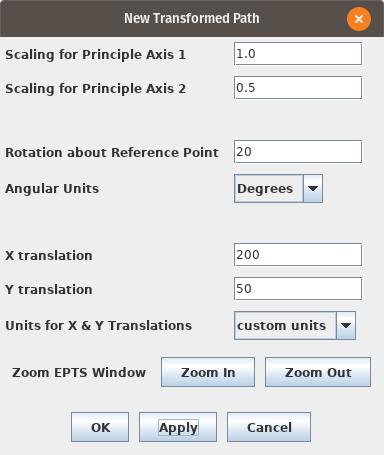
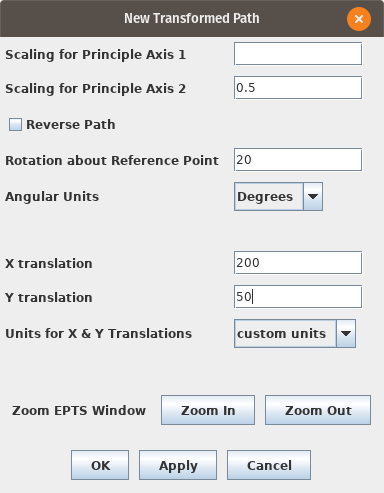
Add code to reverse a path

diff --git a/manual/manual.html b/manual/manual.html
@@ -559,9 +559,13 @@ The <code>Edit</code> menu contains the following items:
     principal axis by 1/2, then rotating by 20 degrees around the
     center of mass, and finally translating by 200 units in the X
     direction and 50 units in the Y direction (in this example custom
-    units are user-space units).  If the <CODE>Apply</CODE> button is
-    clicked, a red shape will appear showing the position of the
-    transformed shape. The corresponding EPTS window
+    units are user-space units). The <CODE>Reverse Path</CODE> option
+    is not used in this example - when checked, it does not change the
+    path but does change the order in which the points along the path
+    are displayed in the table by listing the points in the reverse
+    order.  If the <CODE>Apply</CODE> button is clicked, a red shape
+    will appear showing the position of the transformed shape. The
+    corresponding EPTS window
     <BR><BR>
     <CENTER><IMG src="NTPWindow.png"></CENTER>
     <BR>

diff --git a/src/org.bzdev.epts/org/bzdev/epts/EPTSWindow.java b/src/org.bzdev.epts/org/bzdev/epts/EPTSWindow.java
@@ -1458,6 +1458,12 @@ abstract class TransformPane extends JPanel {
 	return newpath;
     }
 
+    private JCheckBox reversePathCB;
+
+    public boolean requestsReversed() {
+	return reversePathCB.isSelected();
+    }
+
     CharDocFilter cdf = new CharDocFilter();
 
     boolean status =  false;
@@ -1520,6 +1526,10 @@ abstract class TransformPane extends JPanel {
 					ref.getX() + len*principalAxes[1][0],
 					ref.getY() + len*principalAxes[1][1]);
 	}
+
+	reversePathCB = new JCheckBox(localeString("reversePath"));
+	reversePathCB.setEnabled(true);
+	reversePathCB.setSelected(false);
 
 	/*
 	JRadioButton cmButton = new JRadioButton(localeString("cm"), true);
@@ -1769,8 +1779,14 @@ abstract class TransformPane extends JPanel {
 	c.gridwidth = GridBagConstraints.REMAINDER;
 	gridbag.setConstraints(scale2TF, c);
 	add(scale2TF);
-
+	c.gridwidth = 1;
+	gridbag.setConstraints(reversePathCB, c);
+	add(reversePathCB);
 	JLabel spacer = new JLabel(" ");
+	gridbag.setConstraints(spacer, c);
+	add(spacer);
+	spacer = new JLabel(" ");
+	c.gridwidth = GridBagConstraints.REMAINDER;
 	gridbag.setConstraints(spacer, c);
 	add(spacer);
 
@@ -1845,6 +1861,11 @@ abstract class TransformPane extends JPanel {
 		saveIndices();
 		ok();
 	    });
+
+	spacer = new JLabel(" ");
+	c.gridwidth = GridBagConstraints.REMAINDER;
+	gridbag.setConstraints(spacer, c);
+	add(spacer);
 
 	JPanel zoomPane = new JPanel();
 	GridBagLayout gridbagZ = new GridBagLayout();
@@ -2686,7 +2707,7 @@ public class EPTSWindow {
     double scaleX = 1.0;
     double scaleY = 1.0;
     double initialX = 0.0;
-    double initialY = 0.0;;
+    double initialY = 0.0;
 
     void cancelPathOps() {
 	if (rotatePath || scalePath) {
@@ -2804,7 +2825,7 @@ public class EPTSWindow {
 	    }
 	}
 	/*
-	System.out.println("cm = " + centerOfMass);;
+	System.out.println("cm = " + centerOfMass);
 	System.out.format("| %8.3g %8.3g |\n",
 			  moments[0][0], moments[0][1]);
 	System.out.format("| %8.3g %8.3g |\n",
@@ -2900,7 +2921,7 @@ public class EPTSWindow {
 	    }
 	}
 	/*
-	System.out.println("cm = " + centerOfMass);;
+	System.out.println("cm = " + centerOfMass);
 	System.out.format("| %8.3g %8.3g |\n",
 			  moments[0][0], moments[0][1]);
 	System.out.format("| %8.3g %8.3g |\n",
@@ -5011,6 +5032,7 @@ public class EPTSWindow {
 	    }
 	    int n = ptmodel.getRowCount();
 	    AffineTransform af = tfpane.getTransform();
+	    boolean reverse = tfpane.requestsReversed();
 	    double[] tcoords = new double[4];
 	    if (copyMode) {
 		int start = ptmodel.findStart(oldPathName);
@@ -5020,18 +5042,16 @@ public class EPTSWindow {
 		    panel.repaint();
 		    return;
 		}
-		for (int index = start; index < n; index++) {
-		    PointTMR row = ptmodel.getRow(index);
-		    Enum mode = row.getMode();
-		    if (mode == EPTS.Mode.PATH_START) {
-			ptmodel.addRow(new PointTMR(newPathName, mode,
-						    0.0, 0.0, 0.0, 0.0));
-		    } else if (mode == EPTS.Mode.PATH_END) {
-			ptmodel.addRow(new PointTMR("", mode,
-						    0.0, 0.0, 0.0, 0.0));
-		    } else {
-			tcoords[0] = row.getX();
-			tcoords[1] = row.getY();
+		if (reverse) {
+		    ptmodel.addRow(new PointTMR(newPathName,
+						EPTS.Mode.PATH_START,
+						0.0, 0.0, 0.0, 0.0));
+		    int ind1 = ptmodel.getRowCount();
+		    for (SplinePathBuilder.CPoint cp:
+			     ptmodel.getCPoints(start,true, null)) {
+			Enum mode = cp.type;
+			tcoords[0] = cp.x;
+			tcoords[1] = cp.y;
 			af.transform(tcoords, 0, tcoords, 2, 1);
 			double x = tcoords[2];
 			double y = tcoords[3];
@@ -5040,6 +5060,35 @@ public class EPTSWindow {
 			yp = height - yp;
 			// add to table.
 			ptmodel.addRow(new PointTMR("", mode, x, y, xp, yp));
+		    }
+		    ptmodel.addRow(new PointTMR("", EPTS.Mode.PATH_END,
+						0.0, 0.0, 0.0, 0.0));
+		    int ind2 = ptmodel.getRowCount()-1;
+		    ptmodel.fireTableChanged(ind1, ind2,
+					     PointTableModel.Mode.ADDED);
+		} else {
+		    for (int index = start; index < n; index++) {
+			PointTMR row = ptmodel.getRow(index);
+			Enum mode = row.getMode();
+			if (mode == EPTS.Mode.PATH_START) {
+			    ptmodel.addRow(new PointTMR(newPathName, mode,
+							0.0, 0.0, 0.0, 0.0));
+			} else if (mode == EPTS.Mode.PATH_END) {
+			    ptmodel.addRow(new PointTMR("", mode,
+							0.0, 0.0, 0.0, 0.0));
+			} else {
+			    tcoords[0] = row.getX();
+			    tcoords[1] = row.getY();
+			    af.transform(tcoords, 0, tcoords, 2, 1);
+			    double x = tcoords[2];
+			    double y = tcoords[3];
+			    double xp = (x - xrefpoint) / scaleFactor;
+			    double yp = (y - yrefpoint) / scaleFactor;
+			    yp = height - yp;
+			    // add to table.
+			    ptmodel.addRow(new PointTMR("", mode,
+							x, y, xp, yp));
+			}
 		    }
 		}
 	    } else {
@@ -5050,22 +5099,45 @@ public class EPTSWindow {
 		    panel.repaint();
 		    return;
 		}
-		for (int index = start; index < n; index++) {
-		    PointTMR row = ptmodel.getRow(index);
-		    Enum ourmode = row.getMode();
-		    if (ourmode instanceof SplinePathBuilder.CPointType) {
-			tcoords[0] = row.getX();
-			tcoords[1] = row.getY();
+		if (reverse) {
+		    int index = start + 1;
+		    int end = ptmodel.findEnd(start);
+		    for (SplinePathBuilder.CPoint cp:
+			     ptmodel.getCPoints(start,true, null)) {
+			tcoords[0] = cp.x;
+			tcoords[1] = cp.y;
 			af.transform(tcoords, 0, tcoords, 2, 1);
 			double x = tcoords[2];
 			double y = tcoords[3];
 			double xp = (x - xrefpoint) / scaleFactor;
 			double yp = (y - yrefpoint) / scaleFactor;
 			yp = height - yp;
+			PointTMR row = ptmodel.getRow(index);
+			row.setMode(cp.type);
 			row.setX(x, xp);
 			row.setY(y, yp);
-		    } else if (ourmode == EPTS.Mode.PATH_END) {
-			break;
+			index++;
+		    }
+		    ptmodel.fireTableChanged(start, end,
+					     PointTableModel.Mode.MODIFIED);
+		} else {
+		    for (int index = start; index < n; index++) {
+			PointTMR row = ptmodel.getRow(index);
+			Enum ourmode = row.getMode();
+			if (ourmode instanceof SplinePathBuilder.CPointType) {
+			    tcoords[0] = row.getX();
+			    tcoords[1] = row.getY();
+			    af.transform(tcoords, 0, tcoords, 2, 1);
+			    double x = tcoords[2];
+			    double y = tcoords[3];
+			    double xp = (x - xrefpoint) / scaleFactor;
+			    double yp = (y - yrefpoint) / scaleFactor;
+			    yp = height - yp;
+			    row.setX(x, xp);
+			    row.setY(y, yp);
+			} else if (ourmode == EPTS.Mode.PATH_END) {
+			    break;
+			}
 		    }
 		}
 	    }

diff --git a/src/org.bzdev.epts/org/bzdev/epts/PointTableModel.java b/src/org.bzdev.epts/org/bzdev/epts/PointTableModel.java
@@ -130,6 +130,41 @@ public class
 	return -1;
     }
 
+    public SplinePathBuilder.CPoint[]
+	getCPoints(int index, boolean reversed, AffineTransform af)
+    {
+	int start = findStart(index);
+	if (start == -1)  return null;
+	int end = findEnd(start);
+	if (end == -1) return null;
+	start++;
+	if (start >= end) return null;
+	if (start+1 >= end) return null;
+	SplinePathBuilder pb = new SplinePathBuilder();
+	while (start < end) {
+	    PointTMR row = getRow(start++);
+	    Enum rmode = row.getMode();
+	    double x = row.getX();
+	    double y = row.getY();
+	    if (rmode instanceof SplinePathBuilder.CPointType) {
+		SplinePathBuilder.CPointType
+		    mode = (SplinePathBuilder.CPointType) rmode;
+		switch (mode) {
+		case MOVE_TO:
+		case SPLINE:
+		case SEG_END:
+		case CONTROL:
+		    pb.append(new SplinePathBuilder.CPoint(mode, x, y));
+		    break;
+		case CLOSE:
+		    pb.append(new SplinePathBuilder.CPoint(mode));
+		    break;
+		}
+	    }
+	}
+	return pb.getCPoints(reversed, af);
+    }
+
     public Path2D getPath(String pname) {
 	int start = findStart(pname);
 	if (start == -1)  return null;
